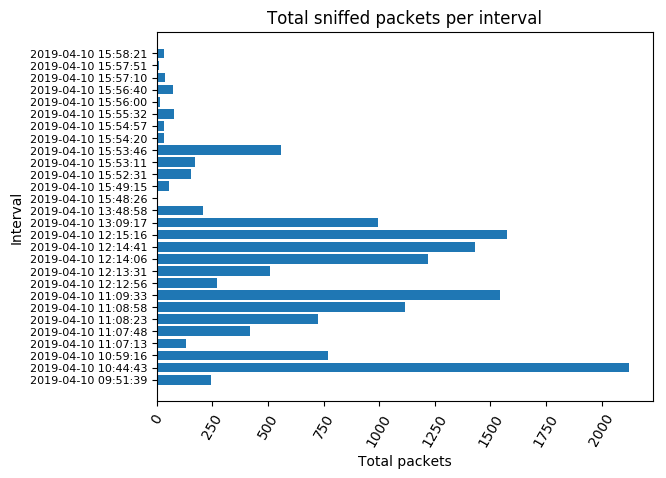
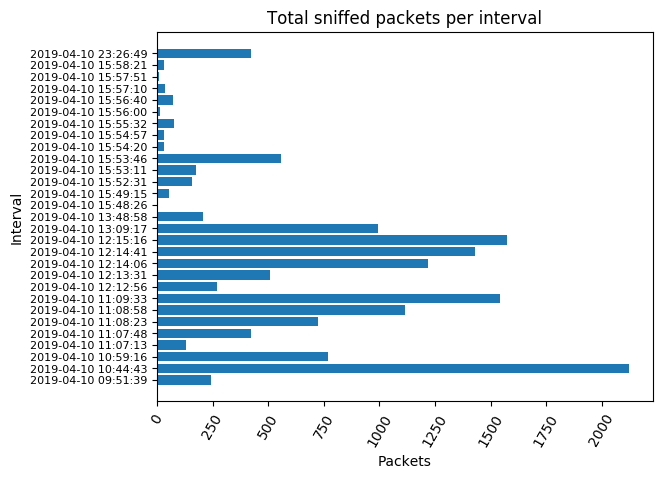
some final tweaks

Changed region(s): [[0.03, 0.0879, 0.7808, 0.7908], [0.5405, 0.8787, 0.6907, 0.9958]]

diff --git a/templates/dashboard_v3.html b/templates/dashboard_v3.html
@@ -37,14 +37,11 @@
          <nav role="navigation" class="navbar topnavbar">
             <!-- START navbar header-->
             <div class="navbar-header">
-               <a href="#/" class="navbar-brand">
+               <a href="#" class="navbar-brand">
                </a>
             </div>
             <!-- END navbar header-->
-         </nav>
-         <!-- END Top Navbar-->
-          <!-- START Nav wrapper-->
-            <div class="nav-wrapper">
+             <div class="nav-wrapper">
                <!-- START Left navbar-->
                <ul class="nav navbar-nav">
                   <li>
@@ -57,8 +54,18 @@
                         <em class="fa fa-navicon"></em>
                      </a>
                   </li>
+                  <li class="visible-lg">
+                     <a href="#" data-toggle-fullscreen="">
+                        <em class="fa fa-expand"></em>
+                     </a>
+                  </li>
                </ul>
+
             </div>
+         </nav>
+         <!-- END Top Navbar-->
+          <!-- START Nav wrapper-->
+
                <!-- END Left navbar-->
       </header>
       <!-- sidebar-->
@@ -108,8 +115,10 @@
                   <div class="panel bg-info-light pt b0 widget">
                      <div class="ph">
                         <em class="icon-cloud-upload fa-lg pull-right"></em>
-                        <div class="h2 mt0">{{ totalpkt }}</div>
-                        <div class="text-uppercase">packets sniffed in total</div>
+                        <div class="h2 mt0">{{ totalsniffs }}
+                        <span class="text-sm text-white">times</span>
+                        </div>
+                        <div class="text-uppercase">sniffed for packets</div>
                      </div>
                      <div data-sparkline="" data-type="line" data-width="100%" data-height="75px" data-line-color="#23b7e5" data-chart-range-min="0" data-fill-color="#23b7e5" data-spot-color="#23b7e5" data-min-spot-color="#23b7e5" data-max-spot-color="#23b7e5"
                      data-highlight-spot-color="#23b7e5" data-highlight-line-color="#23b7e5" values="2,5,3,7,4,5" style="margin-bottom: -2px" data-resize="true"></div>
@@ -120,10 +129,8 @@
                   <div class="panel widget bg-purple-light pt b0 widget">
                      <div class="ph">
                         <em class="icon-globe fa-lg pull-right"></em>
-                        <div class="h2 mt0">{{ totalsniffs }}
-                           <span class="text-sm text-white">x</span>
-                        </div>
-                        <div class="text-uppercase">times sniffed for packets</div>
+                        <div class="h2 mt0">{{ totalpkt }}</div>
+                        <div class="text-uppercase">total packets sniffed</div>
                      </div>
                      <div data-sparkline="" data-type="line" data-width="100%" data-height="75px" data-line-color="#7266ba" data-chart-range-min="0" data-fill-color="#7266ba" data-spot-color="#7266ba" data-min-spot-color="#7266ba" data-max-spot-color="#7266ba"
                      data-highlight-spot-color="#7266ba" data-highlight-line-color="#7266ba" values="1,4,5,4,8,7,10" style="margin-bottom: -2px" data-resize="true"></div>
@@ -205,7 +212,6 @@
                </div>
 
 
-               </div>
             <!-- END Widgets-->
          </div>
       </section>

diff --git a/static/js/demo/demo-flot.js b/static/js/demo/demo-flot.js
@@ -244,65 +244,7 @@
 
 // CHART BAR
 // ----------------------------------- 
-(function(window, document, $, undefined){
 
-  $(function(){
-
-    var data = [{
-      "label": "Sales",
-      "color": "#9cd159",
-      "data": [
-        ["Jan", 27],
-        ["Feb", 82],
-        ["Mar", 56],
-        ["Apr", 14],
-        ["May", 28],
-        ["Jun", 77],
-        ["Jul", 23],
-        ["Aug", 49],
-        ["Sep", 81],
-        ["Oct", 20]
-      ]
-    }];
-
-    var options = {
-                    series: {
-                        bars: {
-                            align: 'center',
-                            lineWidth: 0,
-                            show: true,
-                            barWidth: 0.6,
-                            fill: 0.9
-                        }
-                    },
-                    grid: {
-                        borderColor: '#eee',
-                        borderWidth: 1,
-                        hoverable: true,
-                        backgroundColor: '#fcfcfc'
-                    },
-                    tooltip: true,
-                    tooltipOpts: {
-                        content: function (label, x, y) { return x + ' : ' + y; }
-                    },
-                    xaxis: {
-                        tickColor: '#fcfcfc',
-                        mode: 'categories'
-                    },
-                    yaxis: {
-                        // position: 'right' or 'left'
-                        tickColor: '#eee'
-                    },
-                    shadowSize: 0
-                };
-
-    var chart = $('.chart-bar');
-    if(chart.length)
-      $.plot(chart, data, options);
-
-  });
-
-})(window, document, window.jQuery);
 
 
 // CHART BAR STACKED

diff --git a/app.py b/app.py
@@ -56,6 +56,18 @@ dFrame = dFrame[dFrame['dest_port'].map(len) < 6]
 sumofsignature = dFrame.shape[0]
 print(sumofsignature)
 
+#print(dFrame.to_string())
+lelzDf = pd.DataFrame()
+lelzDf = dFrame[['signature', 'packets']]
+lelzDf.packets = lelzDf.packets.astype(int)
+lelzDf = lelzDf.groupby('signature', as_index=False).agg(sum)
+lelzDf = lelzDf.sort_values(by=['packets'], ascending=False)
+
+toptentraffic = lelzDf[0:10]
+
+print(toptentraffic)
+
+
 # re arranging the columns and leaving out the signature column
 dFrame = dFrame[['src_ip', 'src_port', 'dest_ip', 'dest_port', 'protocol', 'packets', 'starttime', 'endtime', 'detector']]
 columns = dFrame.columns
@@ -86,7 +98,7 @@ axes = plt.gca()
 plt.xticks(rotation=60)
 plt.yticks(fontsize='8')
 plt.ylabel("Interval")
-plt.xlabel("Total packets")
+plt.xlabel("Packets")
 plt.title("Total sniffed packets per interval")
 
 # saving the bar chart
@@ -132,13 +144,12 @@ plt.show()
 
 ############################################ END PIE CHART ############################################################################
 
-
 # defining the flask app
 app = Flask(__name__)
 
 @app.route("/")
 def web():
-    return render_template('dashboard_v3.html', data=dFrame, columns=columns, totalpkt=sumofpackets, totalroute=sumofsignature, totalsniffs=totalsniffs)
+    return render_template('dashboard_v3.html', data=dFrame, columns=columns, totalpkt=sumofpackets, totalroute=sumofsignature, totalsniffs=totalsniffs, topten=toptentraffic)
 
 if __name__ == '__main__':
     app.run(ssl_context='adhoc')
